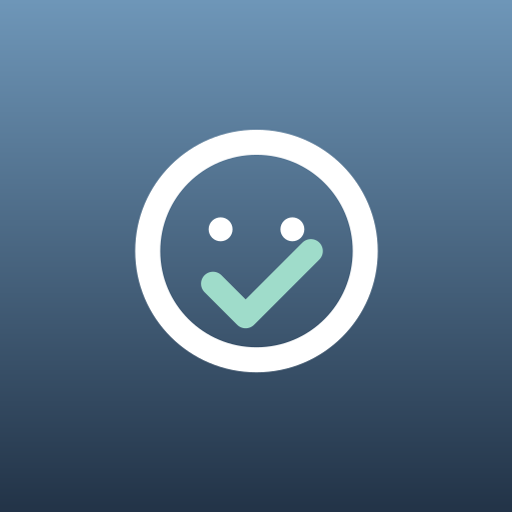
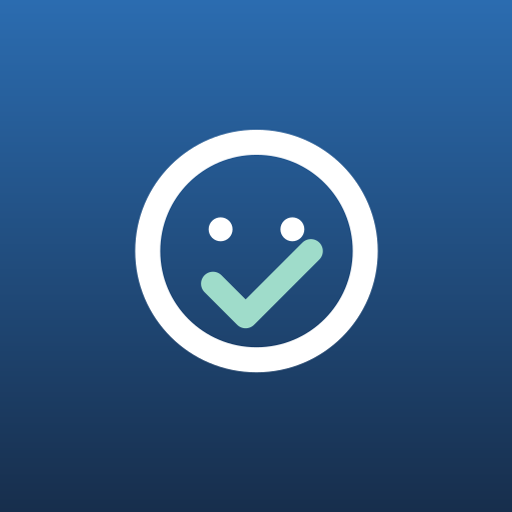
Icono de la app en azul Marino (PWA, iOS, splash y APK)
El logo seguia con el degradado acero (#223347 -> #6e96b8), que en el
celular se veia gris. Ahora va de marino oscuro a acento (#172e4c -> #2b6cb0),
el mismo azul de la barra. El generador ademas produce los mipmaps del
icono adaptativo de Android (fondo, frente y clasico por densidad), que
antes se hacian a mano y se quedaron atras. ?v=3 en manifest/layout para
que la app instalada tome el icono nuevo; versionCode 3 para el APK.

diff --git a/attendance-prototype/app/layout.jsx b/attendance-prototype/app/layout.jsx
@@ -29,10 +29,10 @@ export const metadata = {
     //
     // AL CAMBIAR EL LOGO, SUBIR ESTE NÚMERO — aquí y en manifest.webmanifest.
     icon: [
-      { url: '/icon.svg?v=2', type: 'image/svg+xml' },
-      { url: '/icon-192.png?v=2', sizes: '192x192', type: 'image/png' },
+      { url: '/icon.svg?v=3', type: 'image/svg+xml' },
+      { url: '/icon-192.png?v=3', sizes: '192x192', type: 'image/png' },
     ],
-    apple: '/apple-touch-icon.png?v=2', // iOS no lee el manifest: necesita su propio tag
+    apple: '/apple-touch-icon.png?v=3', // iOS no lee el manifest: necesita su propio tag
   },
   appleWebApp: {
     capable: true,
